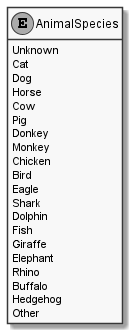
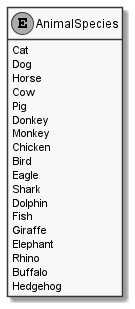
Update Some Models With Enum Nullable

Changed region(s): [[0.0593, 0.0, 0.9185, 0.9903]]

diff --git a/DoofesZeug.Library/Src/Datasets/Dataset.cs b/DoofesZeug.Library/Src/Datasets/Dataset.cs
@@ -4,7 +4,10 @@ using System.Collections.Generic;
 using DoofesZeug.Datatypes.Container;
 using DoofesZeug.Extensions;
 using DoofesZeug.Models.Human;
+using DoofesZeug.Models.Species;
 using DoofesZeug.Tools.Misc;
+
+
 
 namespace DoofesZeug.Datasets
 {
@@ -964,6 +967,7 @@ namespace DoofesZeug.Datasets
                 p.DateOfBirth = r.NextDateTime(new DateTime(1970, 01, 01), new DateTime(2020, 12, 24));
                 p.Gender = g;
                 p.Handedness = r.NextEnum<Handedness>();
+                p.BloodGroup= r.NextEnum<BloodGroup>();
 
                 //TODO: Früher oder später kommt auch noch Profession hinzu, doch immomment haben wir noch kein Profession.GetByWellKnownProfession(WellKnownProfession wkp)
 

diff --git a/DoofesZeug.Library/Src/Models/Human/Person.cs b/DoofesZeug.Library/Src/Models/Human/Person.cs
@@ -4,6 +4,7 @@ using DoofesZeug.Models.Human.Professions;
 using DoofesZeug.Attributes.Documentation;
 using System.Reflection;
 using DoofesZeug.Models.DateAndTime;
+using DoofesZeug.Models.Species;
 
 
 
@@ -16,12 +17,14 @@ namespace DoofesZeug.Models.Human
         public FirstName FirstName { get; set; }
 
         public LastName LastName { get; set; }
-        
+
         public DateOfBirth DateOfBirth { get; set; }
 
-        public Gender Gender { get; set; }
+        public Gender? Gender { get; set; }
 
-        public Handedness Handedness { get; set; }
+        public Handedness? Handedness { get; set; }
+
+        public BloodGroup? BloodGroup { get; set; }
 
         public Profession Profession { get; set; }
 

diff --git a/DoofesZeug.TestConsole/Src/TestConsole.cs b/DoofesZeug.TestConsole/Src/TestConsole.cs
@@ -84,7 +84,7 @@ namespace DoofesZeug
             int counter = 1;
             foreach( Person person in persons )
             {
-                Out.WriteLineAsync($"{counter++}: {person} ({person.Gender}, {person.Handedness})");
+                Out.WriteLineAsync($"{counter++}: {person} ({person.Gender}, {person.Handedness}, {person.BloodGroup})");
             }
 
             //-------------------------------------------------------------------------------------

diff --git a/DoofesZeug.Library/Src/Models/Animals/AnimalSpecies.cs b/DoofesZeug.Library/Src/Models/Animals/AnimalSpecies.cs
@@ -7,8 +7,6 @@ namespace DoofesZeug.Models.Animals
     [Description("Some animal species, mixed with subtypes for faster development.")]
     public enum AnimalSpecies : byte
     {
-        Unknown,
-
         Cat,
         Dog,
         Horse,
@@ -29,8 +27,6 @@ namespace DoofesZeug.Models.Animals
         Elephant,
         Rhino,
         Buffalo,
-        Hedgehog,
-
-        Other
+        Hedgehog
     }
 }

diff --git a/DoofesZeug.Library/Src/Models/Animals/Animal.cs b/DoofesZeug.Library/Src/Models/Animals/Animal.cs
@@ -15,8 +15,8 @@ namespace DoofesZeug.Models.Animals
 
         public Name Name { get; set; }
 
-        public Gender Gender { get; set; }
+        public Gender? Gender { get; set; }
 
-        public AnimalSpecies AnimalSpecies { get; set; }
+        public AnimalSpecies? AnimalSpecies { get; set; }
     }
 }
